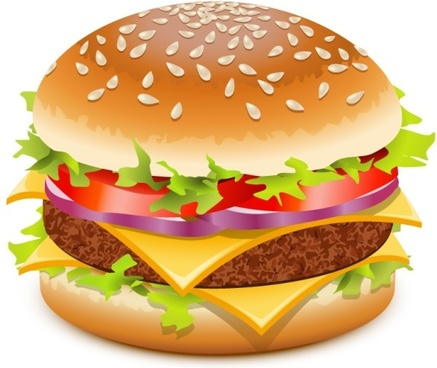
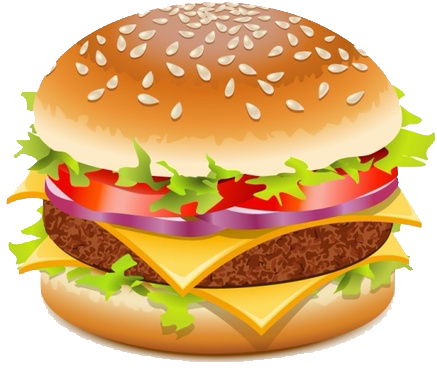
updated style

diff --git a/public/assets/js/burgers.js b/public/assets/js/burgers.js
@@ -1,65 +1,67 @@
 $(function () {
 	const $notDevouredList = $("#not_devoured");
 	const $devouredList = $("#devoured");
-	$("#burger-form").on("submit", function (event) {
-		event.preventDefault();
-		console.log("submit");
-		const burgerName = $(this).children("input").val();
 
-		$.ajax({
-			method: "POST",
-			url: "/burgers",
-			data: {
-				name: burgerName,
-			},
-		}).then(function (response) {
-			location.reload();
-		});
-	});
+	function attachEvent() {
+		$("#burger-form").on("submit", function (event) {
+			event.preventDefault();
+			console.log("submit");
+			const burgerName = $(this).children("input").val();
 
-	$("#not_devoured").on("click", "button", function (event) {
-		const id = $(this).data("id");
-		console.log(id);
-		$.ajax({
-			method: "PUT",
-			url: "/burgers/" + id,
-		}).then(function (response) {
-			location.reload();
+			$.ajax({
+				method: "POST",
+				url: "/burgers",
+				data: {
+					name: burgerName,
+				},
+			}).then(function (response) {
+				location.reload();
+			});
 		});
-	});
 
-	$("#devoured").on("click", "button", function (event) {
-		const id = $(this).data("id");
-		console.log(id);
-		$.ajax({
-			method: "DELETE",
-			url: "/burgers/" + id,
-		}).then(function (response) {
-			location.reload();
+		$("#not_devoured").on("click", "button", function (event) {
+			const id = $(this).data("id");
+			console.log(id);
+			$.ajax({
+				method: "PUT",
+				url: "/burgers/" + id,
+			}).then(function (response) {
+				location.reload();
+			});
 		});
-	});
+
+		$("#devoured").on("click", "button", function (event) {
+			const id = $(this).data("id");
+			console.log(id);
+			$.ajax({
+				method: "DELETE",
+				url: "/burgers/" + id,
+			}).then(function (response) {
+				location.reload();
+			});
+		});
+	}
 
 	function getAllBurger() {
 		$.ajax({
 			method: "GET",
 			url: "/burgers",
 		}).then(function (response) {
-			console.log(response);
-
+			console.log("all burger from server: ", response);
 			renderNotDevoured(response.filter((burger) => burger.devoured === 0));
 			renderDevoured(response.filter((burger) => burger.devoured === 1));
 		});
 	}
 
 	function renderNotDevoured(burgers) {
-		console.log("not de", burgers);
+		console.log("not devoured burger", burgers);
 		let html = "";
 		burgers.forEach((burger) => {
 			html += `
 			<div class="row burger-row">
-                <div class="col-md-9 text-center">${burger.id} ${burger.burger_name}</div>
-                <div class="col-md-3">
-                    <button class="btn btn-primary devour" type="button" data-id="${burger.id}">Devour</button>
+                <div class="col-md-6 col-sm-6 ">${burger.id} ${burger.burger_name}</div>
+                <div class="col-md-6 col-sm-6 ">
+                    <button class="btn-sm btn-primary devour" type="button" data-id="${burger.id}">Devour</button>
                 </div>
 			</div>
 			`;
@@ -69,14 +71,14 @@ $(function () {
 	}
 
 	function renderDevoured(burgers) {
-		console.log("de", burgers);
+		console.log("devoured burger", burgers);
 		let html = "";
 		burgers.forEach((burger) => {
 			html += `
 			<div class="row burger-row">
-                <div class="col-md-9 text-center">${burger.id} ${burger.burger_name}</div>
-                <div class="col-md-3">
-                    <button class="btn btn-danger devour" type="button" data-id="${burger.id}">Delete</button>
+                <div class="col-md-6">${burger.id} ${burger.burger_name}</div>
+                <div class="col-md-6">
+                    <button class="btn-sm btn-danger delete" type="button" data-id="${burger.id}">Delete</button>
                 </div>
 			</div>
 			`;
@@ -86,6 +88,7 @@ $(function () {
 	}
 
 	function start() {
+		attachEvent();
 		getAllBurger();
 	}
 

diff --git a/public/index.html b/public/index.html
@@ -5,22 +5,25 @@
     <link rel="stylesheet" href="/assets/css/burger_style.css">
     <meta charset="UTF-8">
     <meta name="viewport" content="width=device-width, initial-scale=1.0">
-    <title>Document</title>
+    <title>Eat-Da-Burguer</title>
 </head>
 
-<body><img src="/assets/img/burger.png" alt="">
-    <h1>Eat-Da-Burguer</h1>
-    <h6>Enter a burger you want to eat & click the "Submit" button.</h6>
-    <form id="burger-form">
-        <input name="burger-name" type="text">
-        <button>Submit</button>
-    </form>
-    <div class="row">
-        <div class="col-md-6" id="not_devoured">
-            <!-- dynamic row -->
-        </div>
-        <div class="col-md-6" id="devoured">
-            <!-- dynamic row -->
+<body>
+    <div class="container">
+        <img src="/assets/img/burger.png" alt="">
+        <h1>Eat-Da-Burguer</h1>
+        <h6>Enter a burger you want to eat & click the "Submit" button.</h6>
+        <form id="burger-form">
+            <input name="burger-name" type="text">
+            <button class="btn-sm">Submit</button>
+        </form>
+        <div class="row">
+            <div class="col-md-6" id="not_devoured">
+                <!-- dynamic row -->
+            </div>
+            <div class="col-md-6" id="devoured">
+                <!-- dynamic row -->
+            </div>
         </div>
     </div>
     <script src="https://code.jquery.com/jquery-3.5.1.min.js"

diff --git a/public/assets/css/burger_style.css b/public/assets/css/burger_style.css
@@ -1,14 +1,20 @@
-body {
-   
-    font-family: var(--bs-font-sans-serif);
-    font-size: 1rem;
-    font-weight: 400;
-    line-height: 1.5;
-    color: #757575;
-    background-color: rgb(255, 255, 255);
-    -webkit-text-size-adjust: 100%;
-    -webkit-tap-highlight-color: transparent;
-    height: 100%;
-	margin: 90;
+.container {
+	text-align: center;
+	background-color: rgb(205, 219, 205);
+	margin-top: 20px;
 }
 
+img {
+	width: 200px;
+    align-items: center;
+    padding: 20px;
+}
+
+.row {
+	padding: 20px;
+}
+
+.col-md-6 {
+	margin: 0px;
+	padding: 0px;
+}
